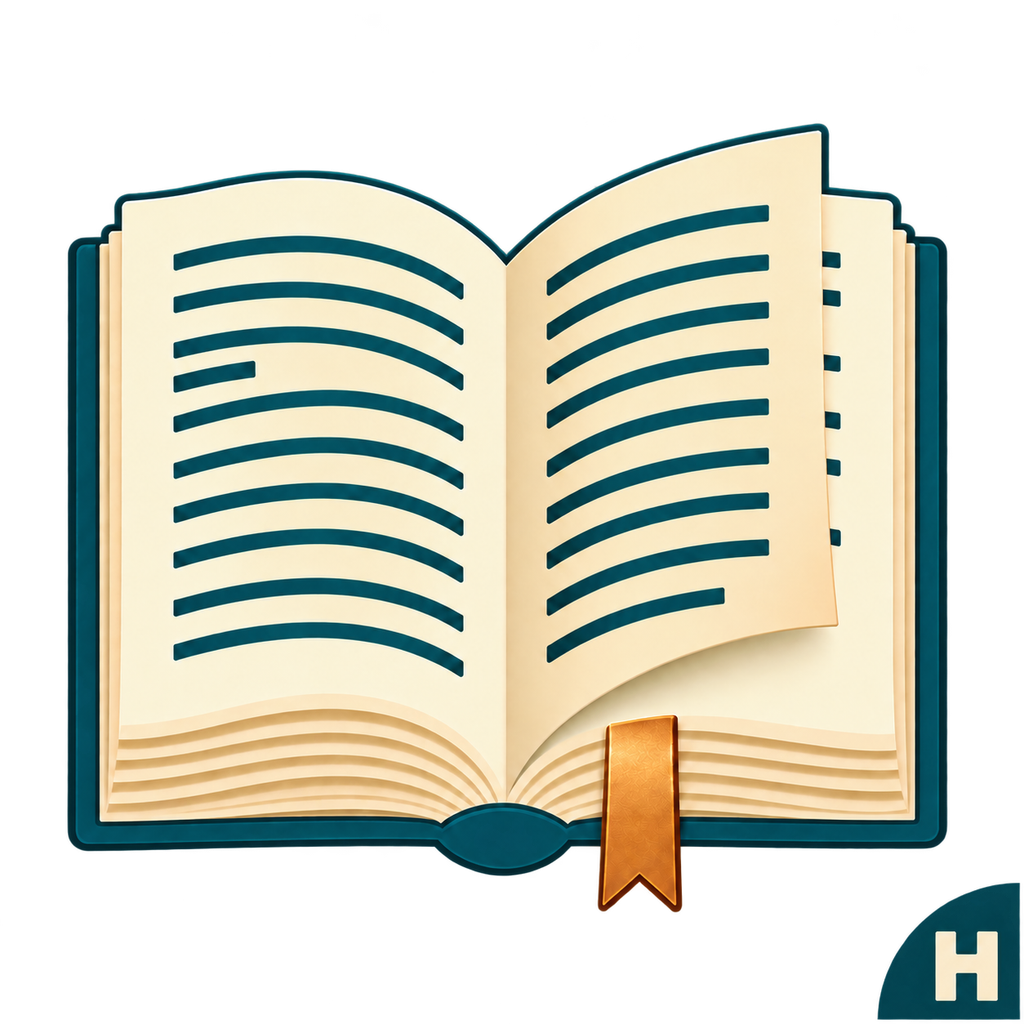
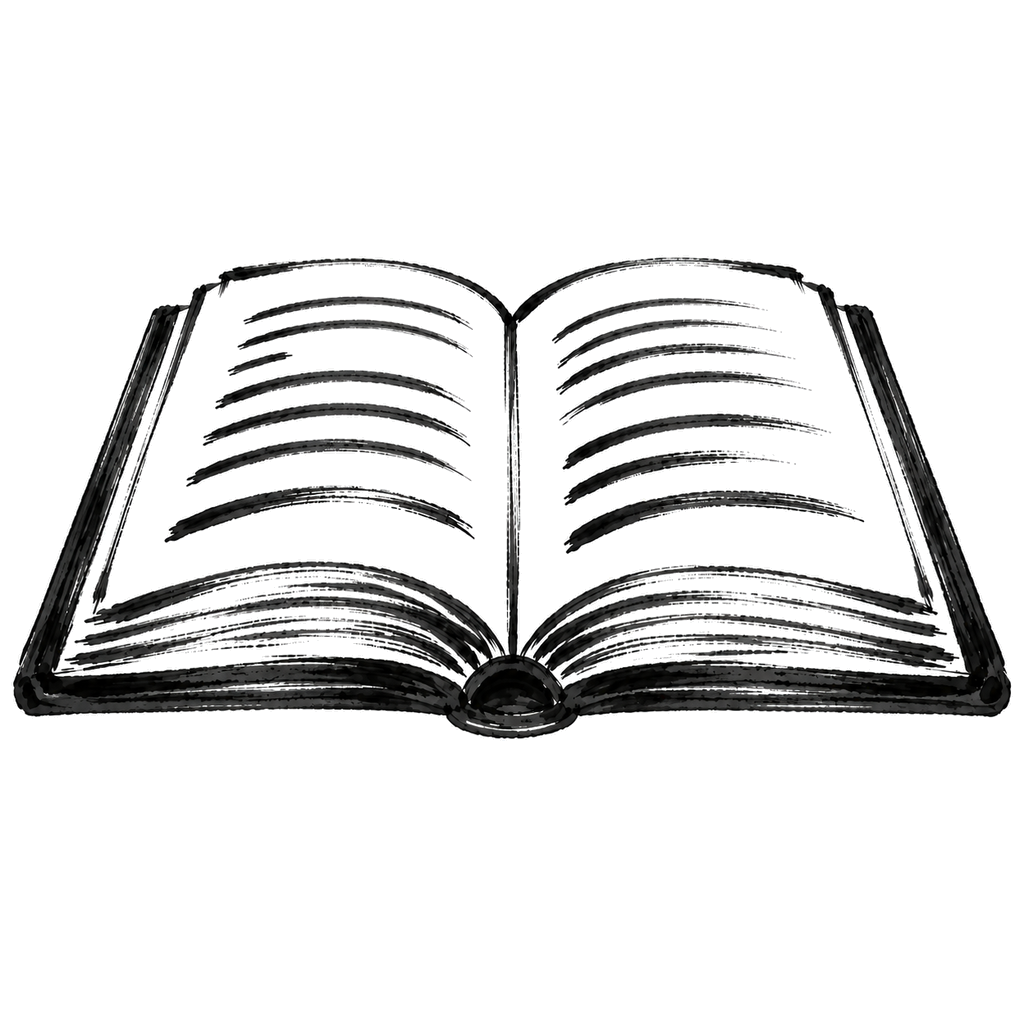
Release Attune 0.1.0 with localized branding and legal pages

diff --git a/THIRD_PARTY_NOTICES.md b/THIRD_PARTY_NOTICES.md
@@ -1,6 +1,6 @@
 # Third-party sources
 
-HReadest (repository: HarmonyReadest) is licensed under AGPL-3.0-or-later. It is an independent HarmonyOS application, not an official Readest release.
+墨契 Attune (repository: HarmonyReadest) is licensed under AGPL-3.0-or-later. It is an independent HarmonyOS application, not an official Readest release.
 
 | Component | Revision / version | License | Use |
 | --- | --- | --- | --- |
@@ -11,7 +11,7 @@ HReadest (repository: HarmonyReadest) is licensed under AGPL-3.0-or-later. It is
 
 Vendored sources retain upstream copyright and license files. Reader builds also include the license texts as `reader/licenses.txt`. Development tools (esbuild, Playwright, Hypium, Hamock) are not part of the production reader bundle. `tinycolor2` 1.6.0 (MIT) evaluates the pinned palette definitions at build time; only static palette data ships in the app.
 
-Theme selectors follow Readest's `ThemePanel.tsx`, `ThemeModeSelector.tsx`, and `ThemeColorSelector.tsx`: one shelf/reader scope, separate mode and color, pill mode controls and three-column palette previews. `scripts/generate-themes.mjs` evaluates the unmodified `styles/themes.ts` with its original color library to generate the shared `core/Themes.ets` table. All 11 schemes have light and dark variants; System mode follows platform appearance. Custom themes, ambient mode and other theme options are deferred. HReadest's icon is an AI-assisted adaptation of Readest's open-book artwork, with a teal cover and linework, cream pages, a copper bookmark and a small uppercase H in a quarter-circle label at the bottom-right corner. The source is `assets/branding/hreadest-icon.png`; `scripts/sync-branding.mjs` derives the 1024 x 1024 transparent launcher foreground and matching splash/About artwork from it. The separate white background fills the layer; launcher masking is left to the system. `sharp` is a build-only image-processing dependency and is not packaged with the reader.
+Theme selectors follow Readest's `ThemePanel.tsx`, `ThemeModeSelector.tsx`, and `ThemeColorSelector.tsx`: one shelf/reader scope, separate mode and color, pill mode controls and three-column palette previews. `scripts/generate-themes.mjs` evaluates the unmodified `styles/themes.ts` with its original color library to generate the shared `core/Themes.ets` table. All 11 schemes have light and dark variants; System mode follows platform appearance. Custom themes, ambient mode and other theme options are deferred. 墨契 Attune's icon is an AI-assisted black-ink adaptation of Readest's open-book artwork, showing a gently reclined open book on white. The selected source is `assets/branding/attune-book-icon.png`; `scripts/sync-branding.mjs` derives the 1024 x 1024 white-backed launcher artwork. The separate `assets/branding/attune-book-transparent.png` cutout supplies splash and About artwork with transparent surroundings and opaque book pages. Launcher masking is left to the system. `sharp` is a build-only image-processing dependency and is not packaged with the reader.
 
 Native sync settings adapt the provider rows in `IntegrationsPanel.tsx` and the configured/unconfigured branches of `integrations/KOSyncForm.tsx`. Service rows expand inline within the floating dialog. Configured accounts expose options and Disconnect without login fields; unsupported providers are hidden. Changing sync enablement or device name persists locally without reauthenticating or requesting remote progress.
 

diff --git a/docs/RELEASE_CHECKLIST.md b/docs/RELEASE_CHECKLIST.md
@@ -1,23 +1,23 @@
-# HReadest public release checklist
+# 墨契 Attune public release checklist
 
 This checklist excludes signing and build configuration, which the maintainer has separately confirmed with Huawei. Package checks do not establish permission to use another project's branding or a hosted service.
 
 ## Project disclosures
 
-- [x] Identify Jin Ye as the HReadest developer, without removing upstream attribution.
+- [x] Identify Jin Ye as the 墨契 Attune developer, without removing upstream attribution.
 - [x] Link About directly to the project source and issue tracker.
-- [x] Offer offline licenses/credits and the HReadest privacy notice in About.
+- [x] Offer offline licenses/credits and the 墨契 Attune privacy notice in About.
 - [x] Preserve pinned upstream revisions, AGPL text, third-party notices and original vendored license files.
-- [x] Describe HReadest as independent and unofficial.
+- [x] Describe 墨契 Attune as independent and unofficial.
 - [ ] Review the privacy notice whenever sync, logging, analytics, permissions or storage behavior changes.
 
 ## Questions for the Readest team
 
-- [ ] Confirm expectations for the HReadest name and modified book icon. Provide the exact icon and screenshots; do not treat a lack of response as approval.
+- [ ] Confirm expectations for the 墨契 Attune name and modified book icon. Provide the exact icon and screenshots; do not treat a lack of response as approval.
 - [ ] Confirm supported third-party use of the production cloud API and public Supabase client configuration; ask whether a separate client registration/authentication flow is preferred.
 - [ ] Discuss schema compatibility, tombstones, cursor pagination, font replicas, unknown-field preservation and upload ordering.
 - [ ] Ask about polling frequency, quotas, retry/backoff expectations, client/version identification and API-change announcements.
-- [ ] Agree on compatibility wording and where users should report HReadest versus service issues.
+- [ ] Agree on compatibility wording and where users should report 墨契 Attune versus service issues.
 
 These are questions about branding and service arrangements, not a request to waive rights already granted by the applicable open-source licenses.
 
@@ -25,7 +25,7 @@ These are questions about branding and service arrangements, not a request to wa
 
 Use disposable accounts and books, not a personal library. Automated fixtures are useful but do not replace these checks.
 
-- [ ] Test HReadest and an official Readest client against the same account in both directions.
+- [ ] Test 墨契 Attune and an official Readest client against the same account in both directions.
 - [ ] Test progress conflicts, rereading backwards, offline recovery and unresolved locators without silent overwrite.
 - [ ] Test bookmark/highlight creation, simultaneous editing and deletion; preserve unsupported fields.
 - [ ] Test fonts, interrupted uploads/downloads, quota failures, token refresh and category switches.

diff --git a/README.md b/README.md
@@ -1,8 +1,8 @@
 <p align="center">
-  <img src="entry/src/main/resources/base/media/startIcon.png" alt="HReadest app icon: an open book" width="128" height="128">
+  <img src="entry/src/main/resources/base/media/startIcon.png" alt="墨契 Attune app icon: an open book" width="128" height="128">
 </p>
 
-<h1 align="center">HReadest</h1>
+<h1 align="center">墨契 Attune</h1>
 
 <p align="center">
   <img src="https://img.shields.io/badge/Platform-HarmonyOS-007DFF?style=flat-square" alt="Platform: HarmonyOS">
@@ -11,7 +11,7 @@
   <a href="https://github.com/TenofHearts"><img src="https://img.shields.io/badge/GitHub-TenofHearts-181717?style=flat-square&amp;logo=github" alt="TenofHearts on GitHub"></a>
 </p>
 
-HReadest is an independent EPUB reader for phones and tablets, with offline reading, a personal bookshelf, bookmarks and highlights, customizable typography and themes, Readest cloud sync, and KOReader progress sync.
+墨契 Attune is an independent EPUB reader for phones and tablets, with offline reading, a personal bookshelf, bookmarks and highlights, customizable typography and themes, Readest cloud sync, and KOReader progress sync.
 
 ## Reading and bookshelf
 
@@ -37,8 +37,8 @@ Choose English, Simplified Chinese, or the system language. The reader supports 
 
 ## Source, licensing, privacy and support
 
-Developed by Jin Ye. HReadest is an independent project, not an official Readest release. Adapted Readest and Foliate components retain their upstream copyrights. See [LICENSE](LICENSE), [third-party credits](THIRD_PARTY_NOTICES.md), and the [HReadest privacy notice](PRIVACY.md) (English and 简体中文). The privacy notice and full license texts are also available offline in Settings → About.
+Developed by Jin Ye. 墨契 Attune is an independent project, not an official Readest release. Adapted Readest and Foliate components retain their upstream copyrights. See [LICENSE](LICENSE), [third-party credits](THIRD_PARTY_NOTICES.md), and the [墨契 Attune privacy notice](PRIVACY.md) (English and 简体中文). The privacy notice and full license texts are also available offline in Settings → About.
 
-[Project source](https://github.com/TenofHearts/Harmony-Readest) · [HReadest support](https://github.com/TenofHearts/Harmony-Readest/issues). Do not put credentials or private books in public issues. Readest is a separate service; compatibility does not imply endorsement.
+[Project source](https://github.com/TenofHearts/Harmony-Readest) · [墨契 Attune support](https://github.com/TenofHearts/Harmony-Readest/issues). Do not put credentials or private books in public issues. Readest is a separate service; compatibility does not imply endorsement.
 
 Before publishing a release, complete the [release checklist](docs/RELEASE_CHECKLIST.md), including release-specific source links and live sync acceptance. Existing automated sync fixtures do not establish full live cross-client compatibility.

diff --git a/docs/VALIDATION.md b/docs/VALIDATION.md
@@ -1,5 +1,13 @@
 # Validation
 
+## Attune / 墨契 0.1.0 (2026-10-14)
+
+- The maintainer confirmed device and sync behavior validation in this conversation. This is maintainer-reported acceptance; the agent did not repeat the device or live-cloud checks or infer a detailed scenario matrix.
+- Updated branding, separate English/Chinese app names, transparent in-app artwork, original Readest service icon, consistent About actions, and native legal-document formatting are included.
+- Version metadata is 0.1.0 / 10013. Signing and build configuration are unchanged. No new binary was built or installed as part of this version/commit request.
+- Latest full Node run before the version bump: 121/122 passed. The local KoSync HTTP integration test failed to connect; maintainer-reported live sync validation does not establish the cause of this test failure.
+
+
 ## Reader cover image loading (2026-10-10)
 
 - Patch metadata is **0.0.13 / 10012** across app/entry/npm manifests, the npm lockfile and regenerated English/Chinese About labels. All **119 Node tests** pass after the version bump, and the signed release APP builds successfully. Its nested HAP was checked for matching version metadata, `debug: false` and the updated reader bundle. Evidence: `output/v0.0.13-tests.log`, `output/v0.0.13-release-build.log` and `output/v0.0.13-package-check.log`.
